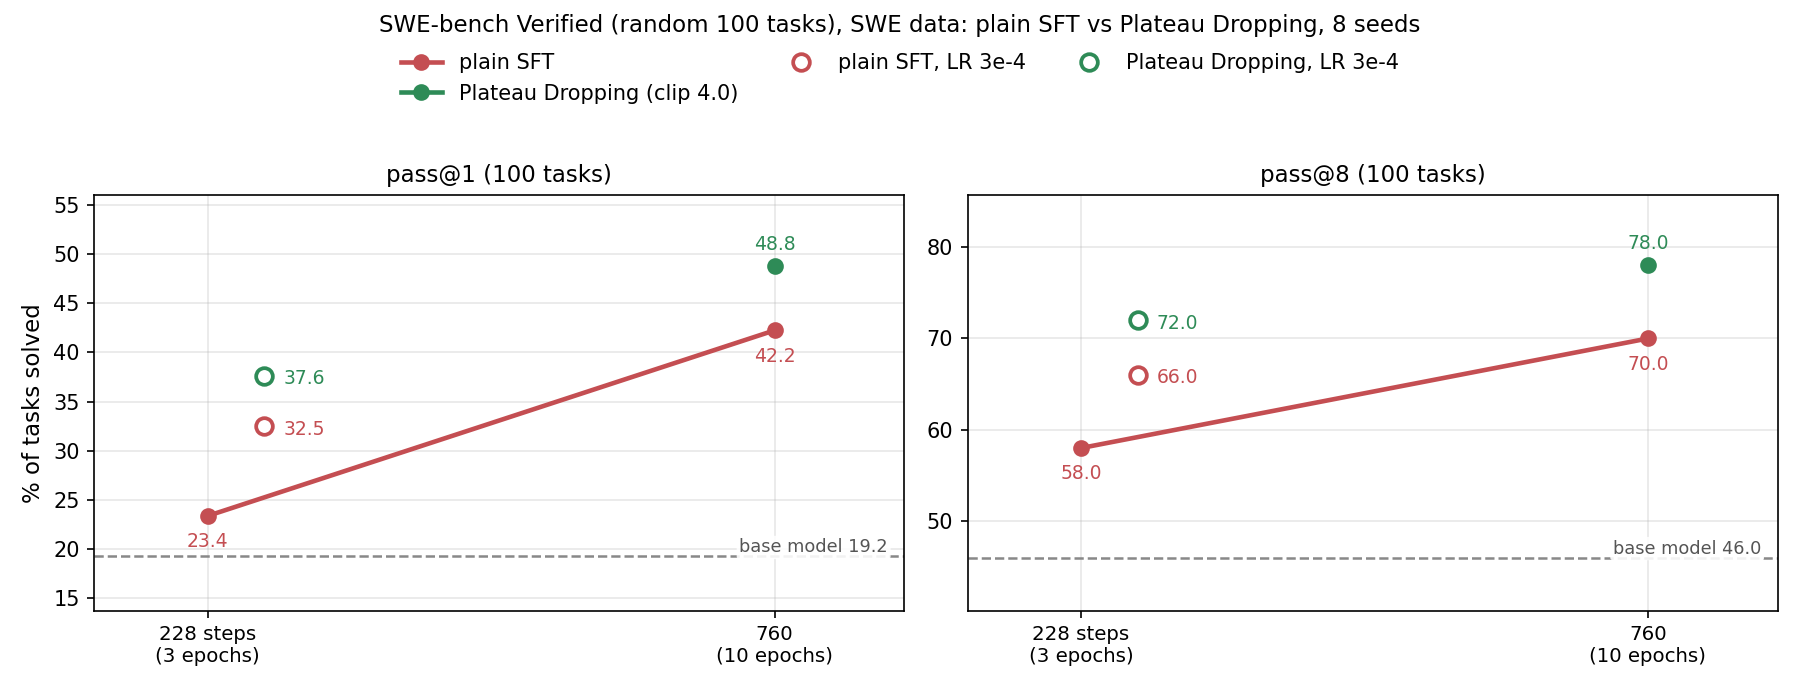
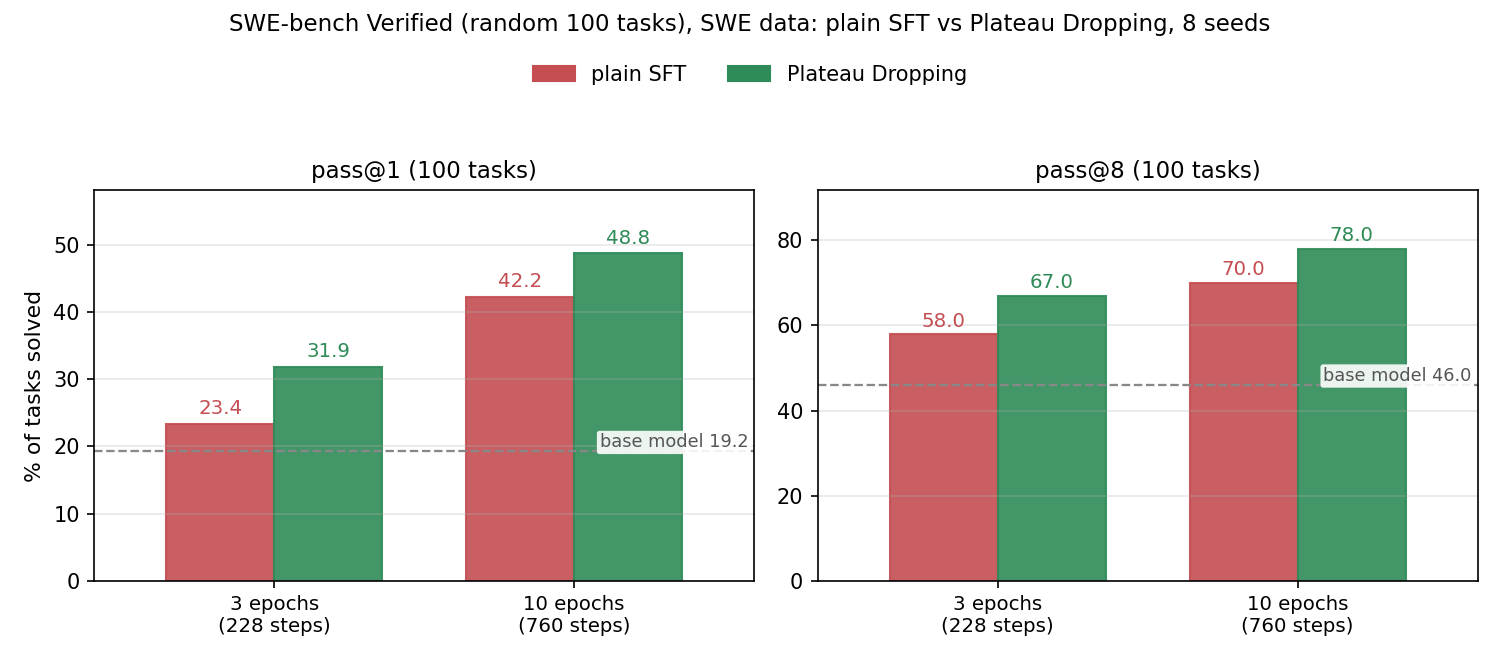
Plateau Dropping post: 3-epoch rows filled, bar-chart figures, consistent clip statements
Claude-Session: https://claude.ai/code/session_018Ea4K6tyj913yCS93WC7Xj

Changed region(s): [[0.0, 0.2424, 1.0, 0.9697], [0.1533, 0.0, 0.8587, 0.1515]]

diff --git a/_posts/2026-10-20-plateau-dropping.md b/_posts/2026-10-20-plateau-dropping.md
@@ -117,8 +117,8 @@ Our packer fills fixed-length rows (64k tokens on the SWE data, 32k on the termi
 - **Model.** A 67B mixture-of-experts model with about 2B parameters active per token: [open-athena/Grug-67B-A2B-Datakit-SFT-262K-2026.09.21](https://huggingface.co/open-athena/Grug-67B-A2B-Datakit-SFT-262K-2026.09.21).
 - **Terminal data.** 6,301 successful trajectories (45M tokens, 1,610 tasks): 5,324 from the public [allenai/tmax-sft](https://huggingface.co/datasets/allenai/tmax-sft) dataset, written by a 27B teacher, and 977 of the base model's own successes on synthetic terminal tasks. Context 32k.
 - **SWE data.** 9,229 resolved trajectories (7,005 tasks) from the public [nvidia/Open-SWE-Traces](https://huggingface.co/datasets/nvidia/Open-SWE-Traces) dataset, restricted to one shell command per step to match our agent (319M tokens). Context 64k.
-- **Training.** Learning rate 1e-4, cosine schedule over the run with 3% warmup, AdamH, no weight decay, global gradient-norm clipping at 4.0 for Plateau Dropping and TailSFT (Appendix A, item 5, explains why the usual 1.0 is wrong for them) and 1.0 for plain SFT, whose gradient norm rarely reaches 1.0, bf16 compute with fp32 master weights and optimizer state, expert capacity factor 2.0 (no dropped token-to-expert assignments), router biases frozen, 16 nodes of 4 GPUs each. Plain SFT and Plateau Dropping runs of the same length share the data order.
-- **Compared models.** On the terminal data: SFT and Plateau Dropping for 3 and 10 nominal epochs (66 and 220 steps), and TailSFT for 3. On the SWE data: SFT and Plateau Dropping for 3 and 10 nominal epochs (228 and 760 steps), TailSFT for 3, the 3-epoch pair again at a learning rate of 3e-4, and plain SFT for 20 nominal epochs (1,520 steps) as a longer-trained baseline. Every Plateau Dropping and TailSFT model in the main tables is a run at gradient clip 4.0; the cells marked pending are Plateau Dropping runs not yet trained at that clip.
+- **Training.** Learning rate 1e-4, cosine schedule over the run with 3% warmup, AdamH, no weight decay, global gradient-norm clipping at 4.0 for the 10-epoch Plateau Dropping runs (Appendix A, item 5, explains why the usual 1.0 is wrong for them) and 1.0 for all other runs, whose gradient norm rarely reaches 1.0 (the exception is the learning-rate 3e-4 pair, where both arms use 4.0), bf16 compute with fp32 master weights and optimizer state, expert capacity factor 2.0 (no dropped token-to-expert assignments), router biases frozen, 16 nodes of 4 GPUs each. Plain SFT and Plateau Dropping runs of the same length share the data order.
+- **Compared models.** On the terminal data: SFT and Plateau Dropping for 3 and 10 nominal epochs (66 and 220 steps), and TailSFT for 3. On the SWE data: SFT and Plateau Dropping for 3 and 10 nominal epochs (228 and 760 steps), TailSFT for 3, the 3-epoch pair again at a learning rate of 3e-4, and plain SFT for 20 nominal epochs (1,520 steps) as a longer-trained baseline. The 10-epoch Plateau Dropping models are runs at gradient clip 4.0. At 3 epochs the clip does not matter: the SWE run never reaches 1.0 and the terminal run reaches it only on the same three early steps as plain SFT, so those runs are at 1.0, like plain SFT and TailSFT, which reach it on no more than 4% of steps (Appendix A, item 5); the exception is the learning-rate 3e-4 pair, where both arms use 4.0.
 - **Harness.** We use the [mini-swe-agent](https://github.com/SWE-agent/mini-swe-agent) harness everywhere: all training trajectories are in its format, and all evaluations run in it. At each step the model writes its reasoning and one shell command, then sees the command's output.
 
 ### 2.4 Evaluation
@@ -133,16 +133,16 @@ One change to the SWE-bench Verified grader: before running the tests, the stand
 
 ![Figure 2](/assets/img/blog/plateau-dropping/fig5_swebench_corrected.png)
 
-Figure 2. SWE-bench Verified (random 100 tasks), pass@1 and pass@8 (%) against training length for plain SFT (red) and Plateau Dropping (green), 8 seeds, all 100 tasks (Section 2.4); dashed: the base model; hollow markers: the 3-epoch pair at a learning rate of 3e-4 (both arms at clip 4.0). Plateau Dropping runs are at gradient clip 4.0; its 3-epoch point at that clip is pending.
+Figure 2. SWE-bench Verified (random 100 tasks), pass@1 and pass@8 (%) after 3 and 10 nominal epochs for plain SFT (red) and Plateau Dropping (green), 8 seeds, all 100 tasks (Section 2.4); dashed: the base model. The learning-rate check (Section 3.3) is in Table 1. Plateau Dropping at 10 epochs is at gradient clip 4.0; at 3 epochs the clip does not engage (Section 2.4).
 {: .caption}
 
-**Table 1.** SWE-bench Verified, pass@1 and pass@8 in %, 8 seeds, all 100 tasks (Section 2.4). Rows marked LR 3e-4 were trained at three times the default learning rate; at that rate plain SFT's gradient norm exceeds 1.0 on 43% of its steps, so both arms of those rows use clip 4.0, whereas at the default rate plain SFT uses the standard clip of 1.0 (Section 2.3). Every Plateau Dropping row is a run at gradient clip 4.0; the rows marked in progress are being rerun at that clip. Bold marks the best value at each training length.
+**Table 1.** SWE-bench Verified, pass@1 and pass@8 in %, 8 seeds, all 100 tasks (Section 2.4). Rows marked LR 3e-4 were trained at three times the default learning rate; at that rate plain SFT's gradient norm exceeds 1.0 on 43% of its steps, so both arms of those rows use clip 4.0, whereas at the default rate plain SFT uses the standard clip of 1.0 (Section 2.3). The 10-epoch Plateau Dropping row is a run at gradient clip 4.0; the 3-epoch Plateau Dropping row at the default rate is at 1.0, where the clip does not engage. Bold marks the best value at each training length.
 
 | training length | model | pass@1 | pass@8 |
 |---|---|---|---|
 | none | base model | 19.2 | 46.0 |
 | 3 epochs (228 steps) | + SFT | 23.4 | 58.0 |
-| 3 epochs (228 steps) | + Plateau Dropping | [pending] | [pending] |
+| 3 epochs (228 steps) | + Plateau Dropping | **31.9** | **67.0** |
 | 3 epochs (228 steps), LR 3e-4 | + SFT | 32.5 | 66.0 |
 | 3 epochs (228 steps), LR 3e-4 | + Plateau Dropping | **37.6** | **72.0** |
 | 10 epochs (760 steps) | + SFT | 42.2 | 70.0 |
@@ -152,22 +152,22 @@ The result the rest of the post rests on is the 10-epoch pair. After 10 nominal 
 
 ### 3.2 Check 1: training budget
 
-Plain SFT on this data is strong and keeps improving: 10 nominal epochs take the base model from 19.2% to 42.2% pass@1 and from 46.0% to 70.0% pass@8, and the loss is still falling at the end (Figure 1). So one might ask whether plain SFT was simply stopped too early. We trained it twice as long: at 20 nominal epochs it reaches 44.9% pass@1 and 75.0% pass@8, still below Plateau Dropping at 10 epochs (+3.9 ± 1.7 at pass@1, +3.0 ± 2.7 at pass@8, paired over tasks). Plateau Dropping at 10 epochs beats plain SFT at either budget with at most half the training. The 3-epoch Plateau Dropping point at the method's clip setting is pending.
+Plain SFT on this data is strong and keeps improving: 10 nominal epochs take the base model from 19.2% to 42.2% pass@1 and from 46.0% to 70.0% pass@8, and the loss is still falling at the end (Figure 1). So one might ask whether plain SFT was simply stopped too early. We trained it twice as long: at 20 nominal epochs it reaches 44.9% pass@1 and 75.0% pass@8, still below Plateau Dropping at 10 epochs (+3.9 ± 1.7 at pass@1, +3.0 ± 2.7 at pass@8, paired over tasks). Plateau Dropping at 10 epochs beats plain SFT at either budget with at most half the training. Plateau Dropping leads at both budgets: by 8.5 points at pass@1 (31.9% against 23.4%, ± 2.1) and 9.0 at pass@8 (67.0% against 58.0%, ± 4.3) after 3 epochs, and by 6.5 and 8.0 after 10.
 
 ### 3.3 Check 2: a tuned baseline
 
-The runs above use a learning rate of 1e-4, which turns out to be low for a 228-step run. Repeating the 3-epoch pair at 3e-4 (Table 1, rows marked LR 3e-4) lifts plain SFT by 9.1 points at pass@1 and 8.0 at pass@8, to 32.5% and 66.0%; it still sits 9.7 points below plain SFT at the default rate for 10 epochs, so the extra passes do most of the work there. Plateau Dropping at the same rate reaches 37.6% and 72.0%, ahead of plain SFT by 5.1 points at pass@1 (±1.8, paired over tasks) and 6.0 at pass@8 (±3.0): the gain survives a baseline trained at three times the rate. The same pair at 10 epochs is being evaluated.
+The runs above use a learning rate of 1e-4, which turns out to be low for a 228-step run. Repeating the 3-epoch pair at 3e-4 (Table 1, rows marked LR 3e-4; not shown in Figure 2) lifts plain SFT by 9.1 points at pass@1 and 8.0 at pass@8, to 32.5% and 66.0%; it still sits 9.7 points below plain SFT at the default rate for 10 epochs, so the extra passes do most of the work there. Plateau Dropping at the same rate reaches 37.6% and 72.0%, ahead of plain SFT by 5.1 points at pass@1 (±1.8, paired over tasks) and 6.0 at pass@8 (±3.0): the lead narrows from 8.5 and 9.0 at the default rate but survives a baseline trained at three times the rate. The same pair at 10 epochs is being evaluated.
 
 ### 3.4 A second dataset: terminal benchmarks
 
 ![Figure 3](/assets/img/blog/plateau-dropping/fig3_tb2_corrected.png)
 
-Figure 3. Terminal-Bench 2.0, pass@1 and pass@8 (%) against training length (66 and 220 steps) for plain SFT (red) and Plateau Dropping (green), averaged over 8 seeds; dashed: the base model. All 88 tasks (Section 2.4). Plateau Dropping runs are at gradient clip 4.0; its 66-step point at that clip is pending.
+Figure 3. Terminal-Bench 2.0, pass@1 and pass@8 (%) after 3 and 10 nominal epochs (66 and 220 steps) for plain SFT (red) and Plateau Dropping (green), averaged over 8 seeds; dashed: the base model. All 88 tasks (Section 2.4). Plateau Dropping at 220 steps is at gradient clip 4.0; at 66 steps the clip engages only on the same three early steps as for plain SFT (Section 2.4).
 {: .caption}
 
 ![Figure 4](/assets/img/blog/plateau-dropping/fig4_tblite_corrected.png)
 
-Figure 4. TB-Lite, pass@1 and pass@8 (%) against training length (66 and 220 steps) for plain SFT (red) and Plateau Dropping (green), averaged over 8 seeds; dashed: the base model. All 97 tasks (Section 2.4). Plateau Dropping runs are at gradient clip 4.0; its 66-step point at that clip is pending.
+Figure 4. TB-Lite, pass@1 and pass@8 (%) after 3 and 10 nominal epochs (66 and 220 steps) for plain SFT (red) and Plateau Dropping (green), averaged over 8 seeds; dashed: the base model. All 97 tasks (Section 2.4). Plateau Dropping at 220 steps is at gradient clip 4.0; at 66 steps the clip engages only on the same three early steps as for plain SFT (Section 2.4).
 {: .caption}
 
 **Table 2.** TB-Lite, pass@1 and pass@8 in %, 8 seeds, all 97 tasks (Section 2.4).
@@ -175,8 +175,8 @@ Figure 4. TB-Lite, pass@1 and pass@8 (%) against training length (66 and 220 ste
 | training length | model | pass@1 | pass@8 |
 |---|---|---|---|
 | none | base model | 16.6 | 50.5 |
-| 3 epochs (66 steps) | + SFT | 27.2 | 67.0 |
-| 3 epochs (66 steps) | + Plateau Dropping | [pending] | [pending] |
+| 3 epochs (66 steps) | + SFT | **27.2** | **67.0** |
+| 3 epochs (66 steps) | + Plateau Dropping | 25.4 | 59.8 |
 | 10 epochs (220 steps) | + SFT | 33.9 | 64.9 |
 | 10 epochs (220 steps) | + Plateau Dropping | **36.1** | **68.0** |
 
@@ -186,11 +186,11 @@ Figure 4. TB-Lite, pass@1 and pass@8 (%) against training length (66 and 220 ste
 |---|---|---|---|
 | none | base model | 7.1 | 28.4 |
 | 3 epochs (66 steps) | + SFT | 10.2 | 30.7 |
-| 3 epochs (66 steps) | + Plateau Dropping | [pending] | [pending] |
+| 3 epochs (66 steps) | + Plateau Dropping | **12.4** | **35.2** |
 | 10 epochs (220 steps) | + SFT | 16.8 | **39.8** |
 | 10 epochs (220 steps) | + Plateau Dropping | **17.5** | 38.6 |
 
-On the terminal data plain SFT goes from 27.2% to 33.9% pass@1 on TB-Lite and from 10.2% to 16.8% on Terminal-Bench 2.0 between 66 and 220 steps. At 220 steps Plateau Dropping is ahead on TB-Lite (36.1% against 33.9% pass@1, +2.2 ± 1.5 paired over tasks; 68.0% against 64.9% pass@8, +3.1 ± 3.0) and level on Terminal-Bench 2.0 (17.5% against 16.8% pass@1, +0.7 ± 1.3; 38.6% against 39.8% pass@8). The gains on the terminal data are smaller than on the SWE data, and neither is larger than two standard errors. The 66-step Plateau Dropping point at the method's clip setting is pending.
+On the terminal data plain SFT goes from 27.2% to 33.9% pass@1 on TB-Lite and from 10.2% to 16.8% on Terminal-Bench 2.0 between 66 and 220 steps. At 220 steps Plateau Dropping is ahead on TB-Lite (36.1% against 33.9% pass@1, +2.2 ± 1.5 paired over tasks; 68.0% against 64.9% pass@8, +3.1 ± 3.0) and level on Terminal-Bench 2.0 (17.5% against 16.8% pass@1, +0.7 ± 1.3; 38.6% against 39.8% pass@8). At 66 steps the picture is mixed: Plateau Dropping is behind on TB-Lite (25.4% against 27.2% pass@1, −1.8 ± 1.9; 59.8% against 67.0% pass@8, −7.2 ± 4.3) and ahead on Terminal-Bench 2.0 (12.4% against 10.2%, +2.1 ± 1.4; 35.2% against 30.7%, +4.5 ± 4.1). On the terminal data no difference in either direction is larger than two standard errors.
 
 ### 3.5 Baselines: TailSFT
 
@@ -225,7 +225,7 @@ The same 10-epoch pair is being trained from a stronger starting checkpoint (the
 
 ## 5. Conclusion
 
-Plateau Dropping is a small change to standard SFT: the trainer remembers each token's loss from its last two visits, and once that loss stops changing, the token is removed from the training loss until it changes again. On long-horizon agentic data it gives a better checkpoint from the same data and compute. At 10 nominal epochs on the SWE data it is 6.5 points above plain SFT at pass@1 and 8.0 at pass@8 (48.8% against 42.2%, 78.0% against 70.0%), with a training loss that looks the same, and the gain is largest at pass@8. Plain SFT trained twice as long still stays below it (Section 3.2), and at three times the learning rate the 3-epoch lead holds (+5.1 at pass@1, +6.0 at pass@8; Section 3.3). On the terminal benchmarks the gains are smaller: about 2 points at 220 steps on TB-Lite and none to speak of on Terminal-Bench 2.0 (Section 3.4). Sequence-level filtering of the same data (TailSFT) does not help (Section 3.5). The cells marked pending are Plateau Dropping runs not yet trained at the method's clip setting; the pair from a stronger starting checkpoint (Section 3.6) will be added when it finishes.
+Plateau Dropping is a small change to standard SFT: the trainer remembers each token's loss from its last two visits, and once that loss stops changing, the token is removed from the training loss until it changes again. On long-horizon agentic data it gives a better checkpoint from the same data and compute. At 10 nominal epochs on the SWE data it is 6.5 points above plain SFT at pass@1 and 8.0 at pass@8 (48.8% against 42.2%, 78.0% against 70.0%), with a training loss that looks the same, and the gain is largest at pass@8. Plain SFT trained twice as long still stays below it (Section 3.2), and at three times the learning rate the 3-epoch lead holds (+5.1 at pass@1, +6.0 at pass@8; Section 3.3). On the terminal benchmarks there is no consistent gain: every difference, in either direction, is within two standard errors (Section 3.4). Sequence-level filtering of the same data (TailSFT) does not help (Section 3.5). The pair from a stronger starting checkpoint (Section 3.6) will be added when it finishes.
 
 ## Appendix A: training bugs we found along the way
 
@@ -252,7 +252,7 @@ Figure 5. Left: training loss over all tokens on the SWE data for our first, bug
 | Plateau Dropping, clip 1.0 | 46.6 | 72.0 |
 | Plateau Dropping, clip 4.0 | **48.8** | **78.0** |
 
-Clip 4.0 beats clip 1.0 by 2.1 ± 1.7 points at pass@1 and 6.0 ± 2.3 at pass@8, paired over tasks. Every Plateau Dropping and TailSFT run of our first pass was trained at clip 1.0; at that setting Plateau Dropping was ahead of plain SFT by 8.5 points at pass@1 and 9.0 at pass@8 after 3 epochs on SWE-bench Verified, by 4.4 and 2.0 at 10 epochs, and ahead by 4.9 and 6.2 on TB-Lite at 220 steps. The TailSFT runs were clipped no more than plain SFT was (on 4% of logged steps on the SWE data, on the same three early steps on the terminal data) and stand as they are. Every Plateau Dropping run is being redone at clip 4.0, including the two on which the clip barely engaged at 1.0 (the 3-epoch SWE run, never; the 66-step terminal run, on the same three early steps as plain SFT), and only clip-4.0 runs appear in the main text. Normalising the kept-token loss by the full token count instead would remove the interaction by construction, since dropping would then never rescale the gradient; under Adam it should behave like the raised clip, and it has not been run.
+Clip 4.0 beats clip 1.0 by 2.1 ± 1.7 points at pass@1 and 6.0 ± 2.3 at pass@8, paired over tasks. Every Plateau Dropping and TailSFT run of our first pass was trained at clip 1.0; at that setting Plateau Dropping was ahead of plain SFT by 8.5 points at pass@1 and 9.0 at pass@8 after 3 epochs on SWE-bench Verified, by 4.4 and 2.0 at 10 epochs, and ahead by 4.9 and 6.2 on TB-Lite at 220 steps. The TailSFT runs were clipped no more than plain SFT was (on 4% of logged steps on the SWE data, on the same three early steps on the terminal data) and stand as they are. The 10-epoch Plateau Dropping runs were redone at clip 4.0, and only those appear in the main text; the two runs on which the clip barely engaged at 1.0 (the 3-epoch SWE run, never; the 66-step terminal run, on the same three early steps as plain SFT) stand as they are. Normalising the kept-token loss by the full token count instead would remove the interaction by construction, since dropping would then never rescale the gradient; under Adam it should behave like the raised clip, and it has not been run.
 
 **What the bugs did to our conclusions.** In the buggy runs the training loss flattened after one pass, and plain SFT barely moved the base model (19.5% pass@1 on SWE-bench Verified after 20 nominal epochs, against 19.3% for the base) while Plateau Dropping reached 31.1%. Both observations were the first bug: with the fixed trainer the loss falls throughout and plain SFT reaches 44.9% pass@1 and 75.0% pass@8. We do not have a complete account of why Plateau Dropping still improved under the bug. Its gradients are larger, because its loss is averaged over fewer, harder tokens, which would let more of its updates survive the rounding; but the fraction of weights that moved at all was the same in both arms, so that comparison was between two models that had barely trained, and its 10-point gap at 20 epochs does not survive the fix. The terminal-benchmark results of the buggy runs came from the same regime. What survives, once the gradient clip is set correctly for the method (item 5), is a lead of 6.5 points at pass@1 and 8.0 at pass@8 after 10 epochs on SWE-bench Verified. The ablations, the runs from a stronger starting checkpoint, and the comparison of RL started from plain SFT and from Plateau Dropping were all trained under the bugs, and we leave them out of this post until they are rerun (the RL runs themselves were unaffected; their SFT starting points were not). The fixes (fp32 master weights, the capacity-factor setting, the corrected scoring pass, and a gradient-clipping setting for the ablation of Appendix A, item 5) are in our fork of the trainer.
 
